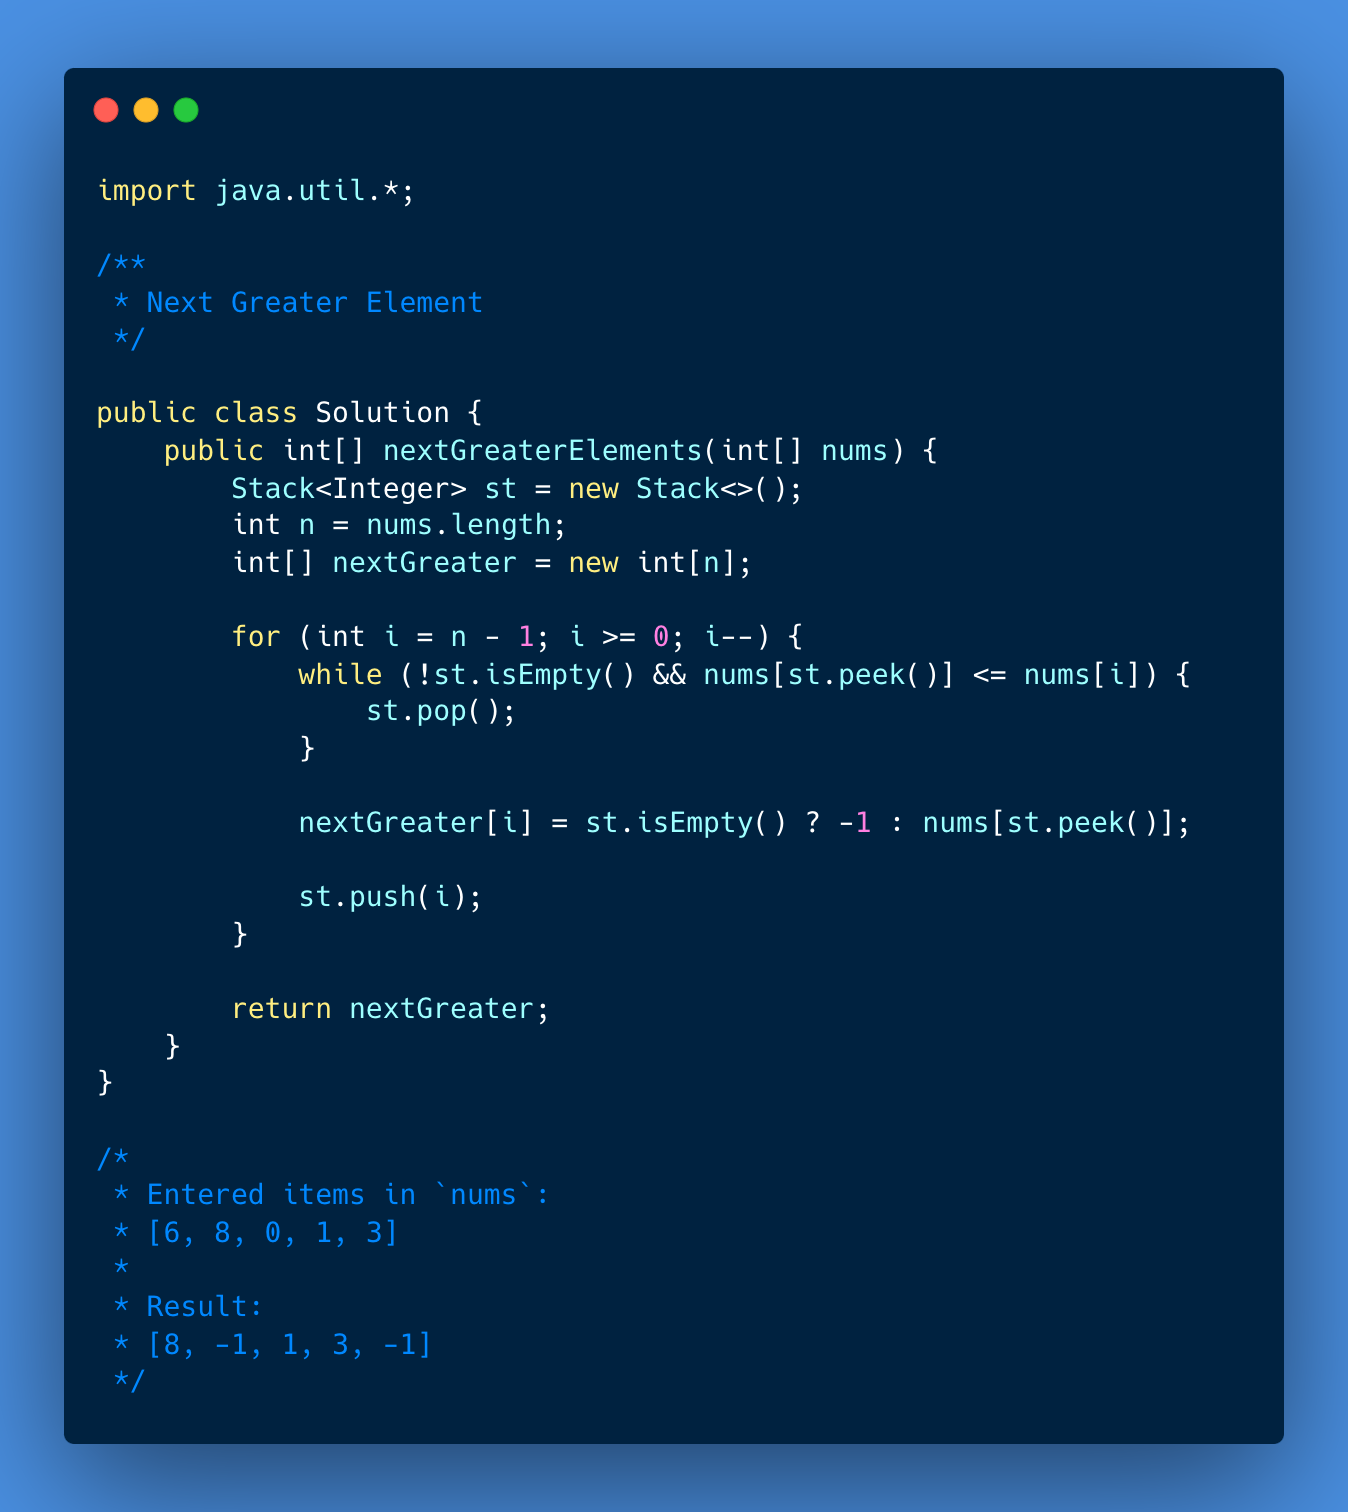
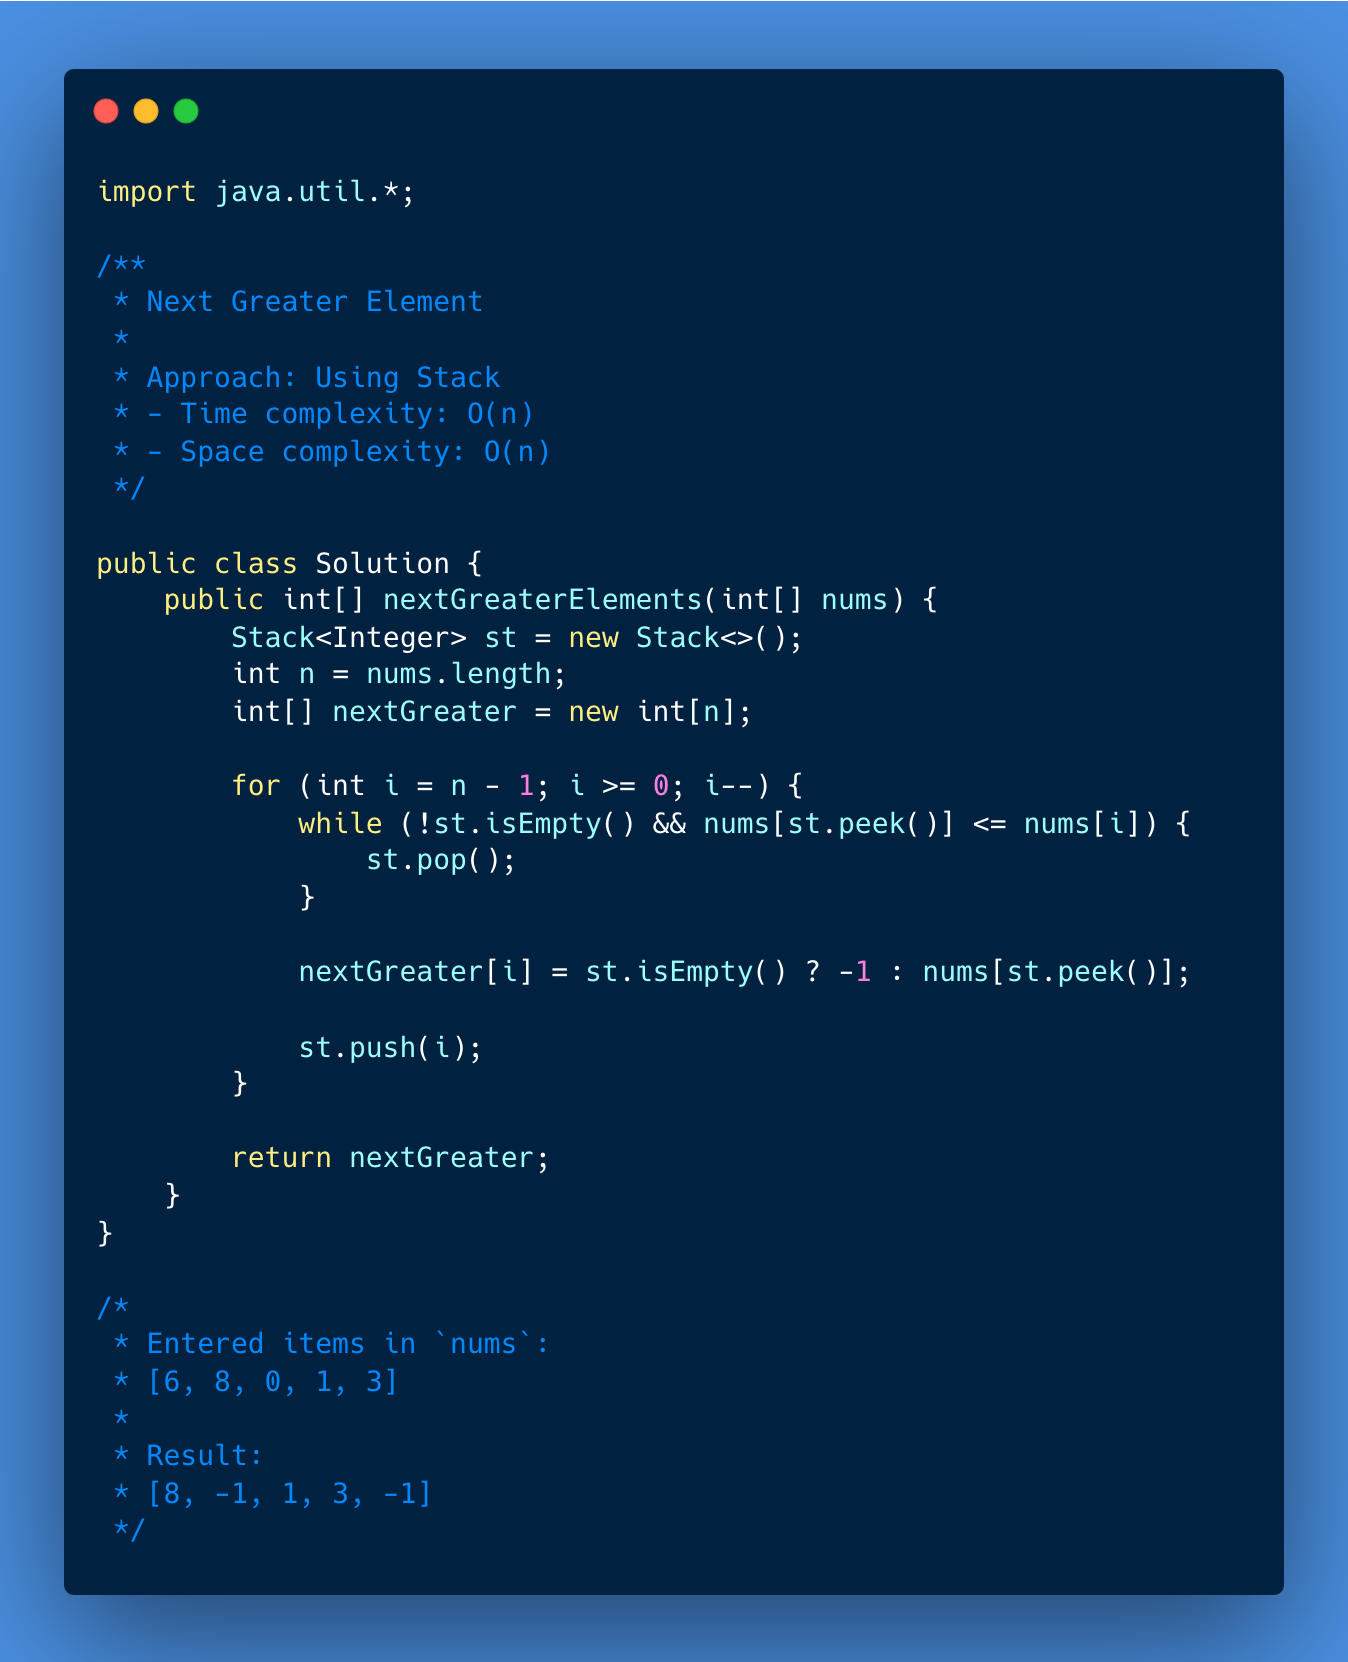
Solve Problem: Next Greater Element

diff --git a/178-next-greater-element/001-solution/Solution.java b/178-next-greater-element/001-solution/Solution.java
@@ -2,6 +2,10 @@ import java.util.*;
 
 /**
  * Next Greater Element
+ * 
+ * Approach: Using Stack
+ * - Time complexity: O(n)
+ * - Space complexity: O(n)
  */
 
 public class Solution {
